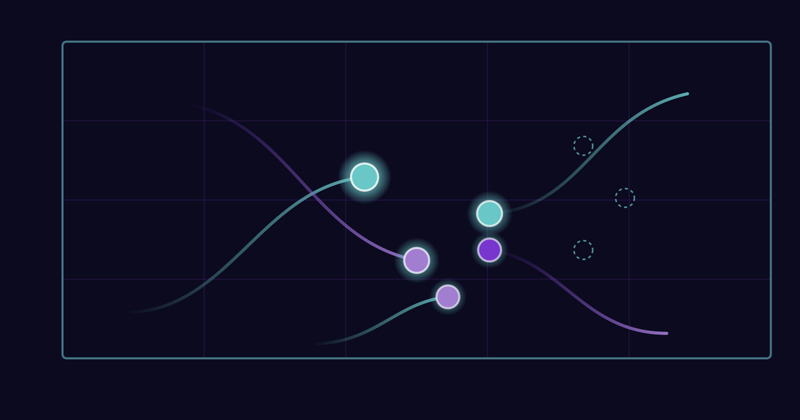
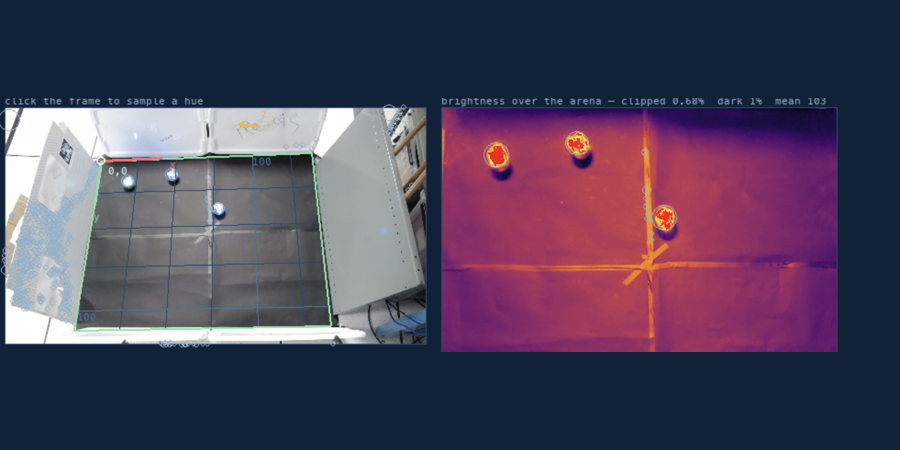
Use a real tracker screenshot for the Sphero card
Replaces the generated placeholder with the calibrated workspace view:
grid homography, three tracked robots, and the brightness panel resolving
all three against the arena.

diff --git a/proyectos/index.html b/proyectos/index.html
@@ -15,7 +15,7 @@ Reinforcement Learning
 Embedded
 </button> <button class="filter-btn cursor-pointer rounded-full bg-[#69c7c7] px-5 py-1.5 text-sm font-bold text-[#1d1250] drop-shadow-[2px_2px_0_#7836cf] transition-all duration-150 active:translate-y-0.5 active:drop-shadow-none" data-filter="multiagent">
 Multi-Agent
-</button> </div>  <div id="projects-container" class="4xl:px-96 flex flex-wrap justify-center gap-5 px-3 pt-5 xl:px-32 2xl:px-60"> <div data-index="0" data-categoria="reinforcement,multiagent,software" class="project-card z-10 flex w-[400px] flex-col overflow-hidden rounded-lg bg-gray-900 shadow-lg transition-transform hover:scale-[1.01] lg:w-[320px] drop-shadow-[4px_4px_0_#7836cf]"> <img src="/_astro/sphero-swarm.B5-UQpZ6.png" alt="Imagen del proyecto Sphero Swarm Lab — Mixed Sim/Real Fleet with Learned Control" class="h-50 w-full rounded-2xl object-cover p-3"> <div class="flex grow flex-col px-3 pb-3"> <h3 class="text-xl font-semibold text-white drop-shadow-[1px_1px_0_#7836cf]">Sphero Swarm Lab — Mixed Sim/Real Fleet with Learned Control</h3> <div class="my-1.5 flex flex-wrap gap-2"> <span class="rounded-md bg-[#7836cf]/20 text-[#a27ed1] px-2 py-0.5 text-xs font-semibold"> Python </span><span class="rounded-md bg-[#7836cf]/20 text-[#a27ed1] px-2 py-0.5 text-xs font-semibold"> Reinforcement Learning </span><span class="rounded-md bg-[#7836cf]/20 text-[#a27ed1] px-2 py-0.5 text-xs font-semibold"> Swarm Robotics </span><span class="rounded-md bg-[#7836cf]/20 text-[#a27ed1] px-2 py-0.5 text-xs font-semibold"> Sim-to-Real </span><span class="rounded-md bg-[#7836cf]/20 text-[#a27ed1] px-2 py-0.5 text-xs font-semibold"> Computer Vision </span><span class="rounded-md bg-[#7836cf]/20 text-[#a27ed1] px-2 py-0.5 text-xs font-semibold"> BLE </span> </div> <p class="flex grow text-gray-400">A swarm robotics platform where every robot is independently simulated or driven over Bluetooth in the same workspace, behind a single interface that nothing above the fleet layer branches on. Policies are trained in simulation with deliberate domain randomisation — command latency, motor lag, per-robot gain, and heading bias are all randomised per episode, because a policy trained at zero latency oscillates on real hardware. The coverage reward deliberately says nothing about flocking or spacing, so spreading behaviour has to be discovered rather than hand-written, and a tool layer with JSON schemas lets a language model drive formations directly.</p> <div class="mt-auto flex justify-between">  <a class="group text-primary mt-6 ml-auto flex items-center justify-start p-0 font-bold text-lg" href="https://github.com/tejasms03/spheroswarm" target="_blank" rel="noopener noreferrer">
+</button> </div>  <div id="projects-container" class="4xl:px-96 flex flex-wrap justify-center gap-5 px-3 pt-5 xl:px-32 2xl:px-60"> <div data-index="0" data-categoria="reinforcement,multiagent,software" class="project-card z-10 flex w-[400px] flex-col overflow-hidden rounded-lg bg-gray-900 shadow-lg transition-transform hover:scale-[1.01] lg:w-[320px] drop-shadow-[4px_4px_0_#7836cf]"> <img src="/_astro/sphero-swarm.BsyKnTH6.png" alt="Imagen del proyecto Sphero Swarm Lab — Mixed Sim/Real Fleet with Learned Control" class="h-50 w-full rounded-2xl object-cover p-3"> <div class="flex grow flex-col px-3 pb-3"> <h3 class="text-xl font-semibold text-white drop-shadow-[1px_1px_0_#7836cf]">Sphero Swarm Lab — Mixed Sim/Real Fleet with Learned Control</h3> <div class="my-1.5 flex flex-wrap gap-2"> <span class="rounded-md bg-[#7836cf]/20 text-[#a27ed1] px-2 py-0.5 text-xs font-semibold"> Python </span><span class="rounded-md bg-[#7836cf]/20 text-[#a27ed1] px-2 py-0.5 text-xs font-semibold"> Reinforcement Learning </span><span class="rounded-md bg-[#7836cf]/20 text-[#a27ed1] px-2 py-0.5 text-xs font-semibold"> Swarm Robotics </span><span class="rounded-md bg-[#7836cf]/20 text-[#a27ed1] px-2 py-0.5 text-xs font-semibold"> Sim-to-Real </span><span class="rounded-md bg-[#7836cf]/20 text-[#a27ed1] px-2 py-0.5 text-xs font-semibold"> Computer Vision </span><span class="rounded-md bg-[#7836cf]/20 text-[#a27ed1] px-2 py-0.5 text-xs font-semibold"> BLE </span> </div> <p class="flex grow text-gray-400">A swarm robotics platform where every robot is independently simulated or driven over Bluetooth in the same workspace, behind a single interface that nothing above the fleet layer branches on. Policies are trained in simulation with deliberate domain randomisation — command latency, motor lag, per-robot gain, and heading bias are all randomised per episode, because a policy trained at zero latency oscillates on real hardware. The coverage reward deliberately says nothing about flocking or spacing, so spreading behaviour has to be discovered rather than hand-written, and a tool layer with JSON schemas lets a language model drive formations directly.</p> <div class="mt-auto flex justify-between">  <a class="group text-primary mt-6 ml-auto flex items-center justify-start p-0 font-bold text-lg" href="https://github.com/tejasms03/spheroswarm" target="_blank" rel="noopener noreferrer">
 Code
 <svg stroke="currentColor" fill="currentColor" stroke-width="0" viewBox="0 0 20 20" aria-hidden="true" class="ml-1 transition-transform duration-200 group-hover:translate-x-1" height="18" width="18" xmlns="http://www.w3.org/2000/svg"><path fill-rule="evenodd" d="M10.293 3.293a1 1 0 011.414 0l6 6a1 1 0 010 1.414l-6 6a1 1 0 01-1.414-1.414L14.586 11H3a1 1 0 110-2h11.586l-4.293-4.293a1 1 0 010-1.414z" clip-rule="evenodd"></path></svg> </a> </div> </div> </div><div data-index="1" data-categoria="software,embedded" class="project-card z-10 flex w-[400px] flex-col overflow-hidden rounded-lg bg-gray-900 shadow-lg transition-transform hover:scale-[1.01] lg:w-[320px] drop-shadow-[4px_4px_0_#7836cf]"> <img src="/_astro/ukf-maze.BZ1XU90D.gif" alt="Imagen del proyecto Depth-Gated UKF Localization with Maze Path Planning" class="h-50 w-full rounded-2xl object-cover p-3"> <div class="flex grow flex-col px-3 pb-3"> <h3 class="text-xl font-semibold text-white drop-shadow-[1px_1px_0_#7836cf]">Depth-Gated UKF Localization with Maze Path Planning</h3> <div class="my-1.5 flex flex-wrap gap-2"> <span class="rounded-md bg-[#7836cf]/20 text-[#a27ed1] px-2 py-0.5 text-xs font-semibold"> Python </span><span class="rounded-md bg-[#7836cf]/20 text-[#a27ed1] px-2 py-0.5 text-xs font-semibold"> UKF </span><span class="rounded-md bg-[#7836cf]/20 text-[#a27ed1] px-2 py-0.5 text-xs font-semibold"> RealSense D435 </span><span class="rounded-md bg-[#7836cf]/20 text-[#a27ed1] px-2 py-0.5 text-xs font-semibold"> OpenCV </span><span class="rounded-md bg-[#7836cf]/20 text-[#a27ed1] px-2 py-0.5 text-xs font-semibold"> A* </span><span class="rounded-md bg-[#7836cf]/20 text-[#a27ed1] px-2 py-0.5 text-xs font-semibold"> ESP32 </span> </div> <p class="flex grow text-gray-400">Real-time external-camera localization for a differential-drive robot, built around an Unscented Kalman Filter whose measurement model is conditioned on a pre-recorded empty-scene depth baseline — a prior a fixed camera can build and a robot-mounted one cannot. An overhead RealSense gates out background pixels, ray-casts a cylinder at the current filter state, and reduces a 307,200-pixel frame to a few hundred pixels weighted jointly by depth and colour. A maze layer overlays a grid through the workspace homography, plans with A* on the cell graph, and executes it with a rotate-then-translate waypoint controller, running at roughly 25 Hz on a single CPU.</p> <div class="mt-auto flex justify-between"> <a class="group text-primary mt-6 flex items-center justify-start p-0 font-bold text-lg" target="_blank" rel="noopener noreferrer" href="https://github.com/tejasms03/depth-gated-ukf/blob/main/demo/ukf_maze_demo.mp4">
 Demo
